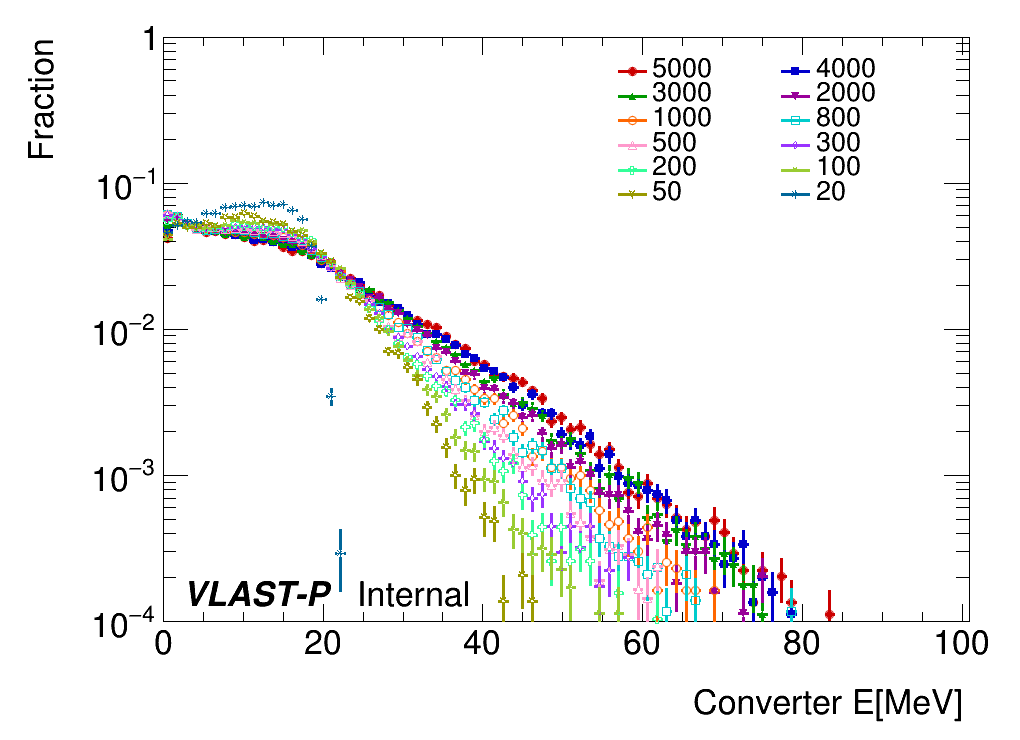
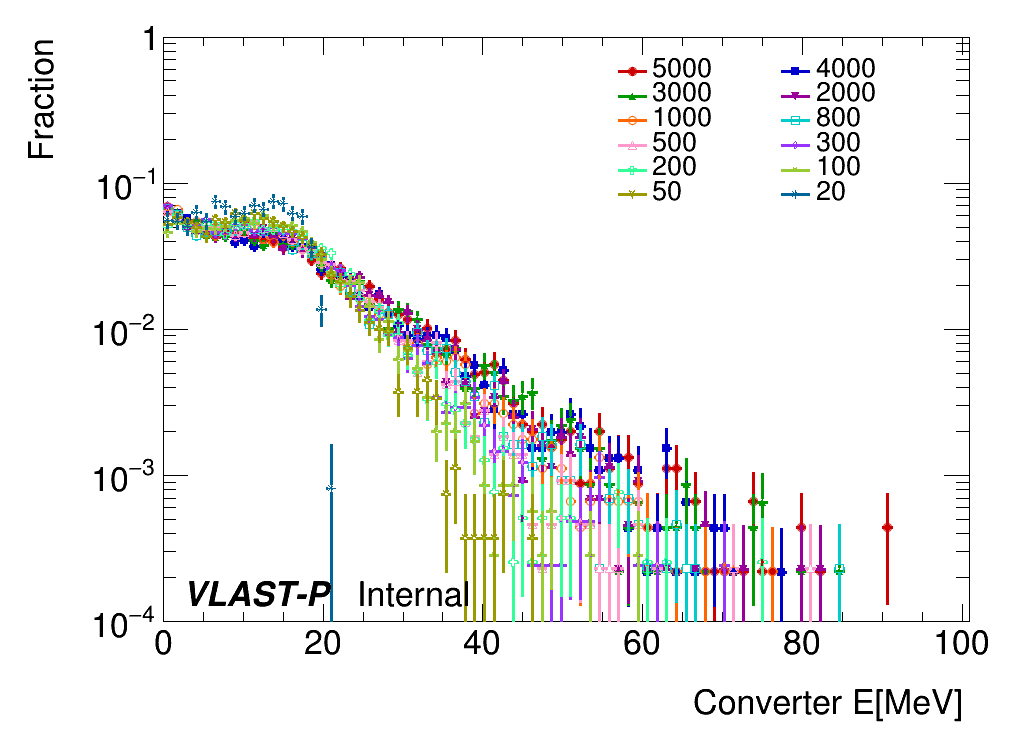
Modified to suit the ML inputs

diff --git a/src/Simulation/SteppingAction.cc b/src/Simulation/SteppingAction.cc
@@ -157,6 +157,19 @@ void SteppingAction::UserSteppingAction(const G4Step* aStep) {
         HistoManager::getInstance().fillConvOptHit(time);
     }
   }
+
+  // 处理真实EP进入ECAL信息
+  if(particleDef->GetPDGEncoding() == 11 && track->GetParentID() == 1 && HistoManager::getInstance().getConv() == 1 && HistoManager::getInstance().getEinECAL() == 0 ){
+    auto pos = track->GetPosition();
+    if(pos.z()>-102.6 && abs(pos.x())<120. && abs(pos.y())<120.){
+    HistoManager::getInstance().setEinECAL();}
+  }
+  if(particleDef->GetPDGEncoding() == -11 && track->GetParentID() == 1 && HistoManager::getInstance().getConv() == 1 && HistoManager::getInstance().getPinECAL() == 0 ){
+    auto pos = track->GetPosition();
+    if(pos.z()>-102.6 && abs(pos.x())<120. && abs(pos.y())<120.){
+      HistoManager::getInstance().setPinECAL();
+    }
+  }
   // 处理能量沉积和命中
   if((edep==0.)){
     // std::cout<<particleDef->GetParticleName()<<" "<<edep<<std::endl;
@@ -169,8 +182,6 @@ void SteppingAction::UserSteppingAction(const G4Step* aStep) {
     }
     else if (postStepLVName == "logicCsI")
     {
-      if(particleDef->GetPDGEncoding() == 11 && track->GetParentID() == 1 && track->GetCreatorProcess()->GetProcessName() == "conv"){HistoManager::getInstance().setEinECAL();}
-      else if(particleDef->GetPDGEncoding() == -11 && track->GetParentID() == 1 && track->GetCreatorProcess()->GetProcessName() == "conv"){HistoManager::getInstance().setPinECAL();}
       HistoManager::getInstance().fillEcalHit(copyNo,edep);
     }
     else if (postStepLVName == "logicConv")

diff --git a/src/Simulation/HistoManager.cc b/src/Simulation/HistoManager.cc
@@ -135,7 +135,7 @@ void HistoManager::fill(const int &_eventNo)
 		{
 			ecell = ecell * 0.999841;
 		}
-		ecell = ecell > 3. ? ecell : 0.;
+		// ecell = ecell > 3. ? ecell : 0.;
 		ecal_cellid.emplace_back(i.first);
 		ecal_celle.emplace_back(ecell);
 		apd_celle.emplace_back(apdcell);
@@ -150,7 +150,7 @@ void HistoManager::fill(const int &_eventNo)
 		yield = yield + rand->Gaus(0, TMath::Sqrt(yield)) + (m_cfg.Conv_ENoise ? rand->Gaus(0, 1000.) : 0.);
 		conv_e = yield / 2000.; // MeV
 	}
-	conv_e = conv_e > 3. ? conv_e : 0.;
+	// conv_e = conv_e > 3. ? conv_e : 0.;
 	eventNo = _eventNo;
 	// std::cout<<"Ntracks: "<<map_track.size()<<std::endl;
 	for (auto i : map_track)

diff --git a/run/result/plot.py b/run/result/plot.py
@@ -391,7 +391,7 @@ def plot_epangle():
 def plot_reso():
 	# Load some histos from the example file
 	# (Gaussian limits from 2016 TLA conf)
-	infile = ROOT.TFile.Open("result.root","READ")
+	infile = ROOT.TFile.Open("result_notrk.root","READ")
 	histos = []
 	legendLines = []
 	
@@ -504,10 +504,10 @@ def plot_reso():
 	c.Update()
 	
 	# Save the output as a .eps, a .C, and a .root
-	c.SaveAs("reso.png")
+	c.SaveAs("reso_notrk.png")
 
 if __name__=="__main__":
 	plot_reso()
-	plot_epangle()
-	plot_conve()
-	plot_etotal()
+	#plot_epangle()
+	#plot_conve()
+	#plot_etotal()
